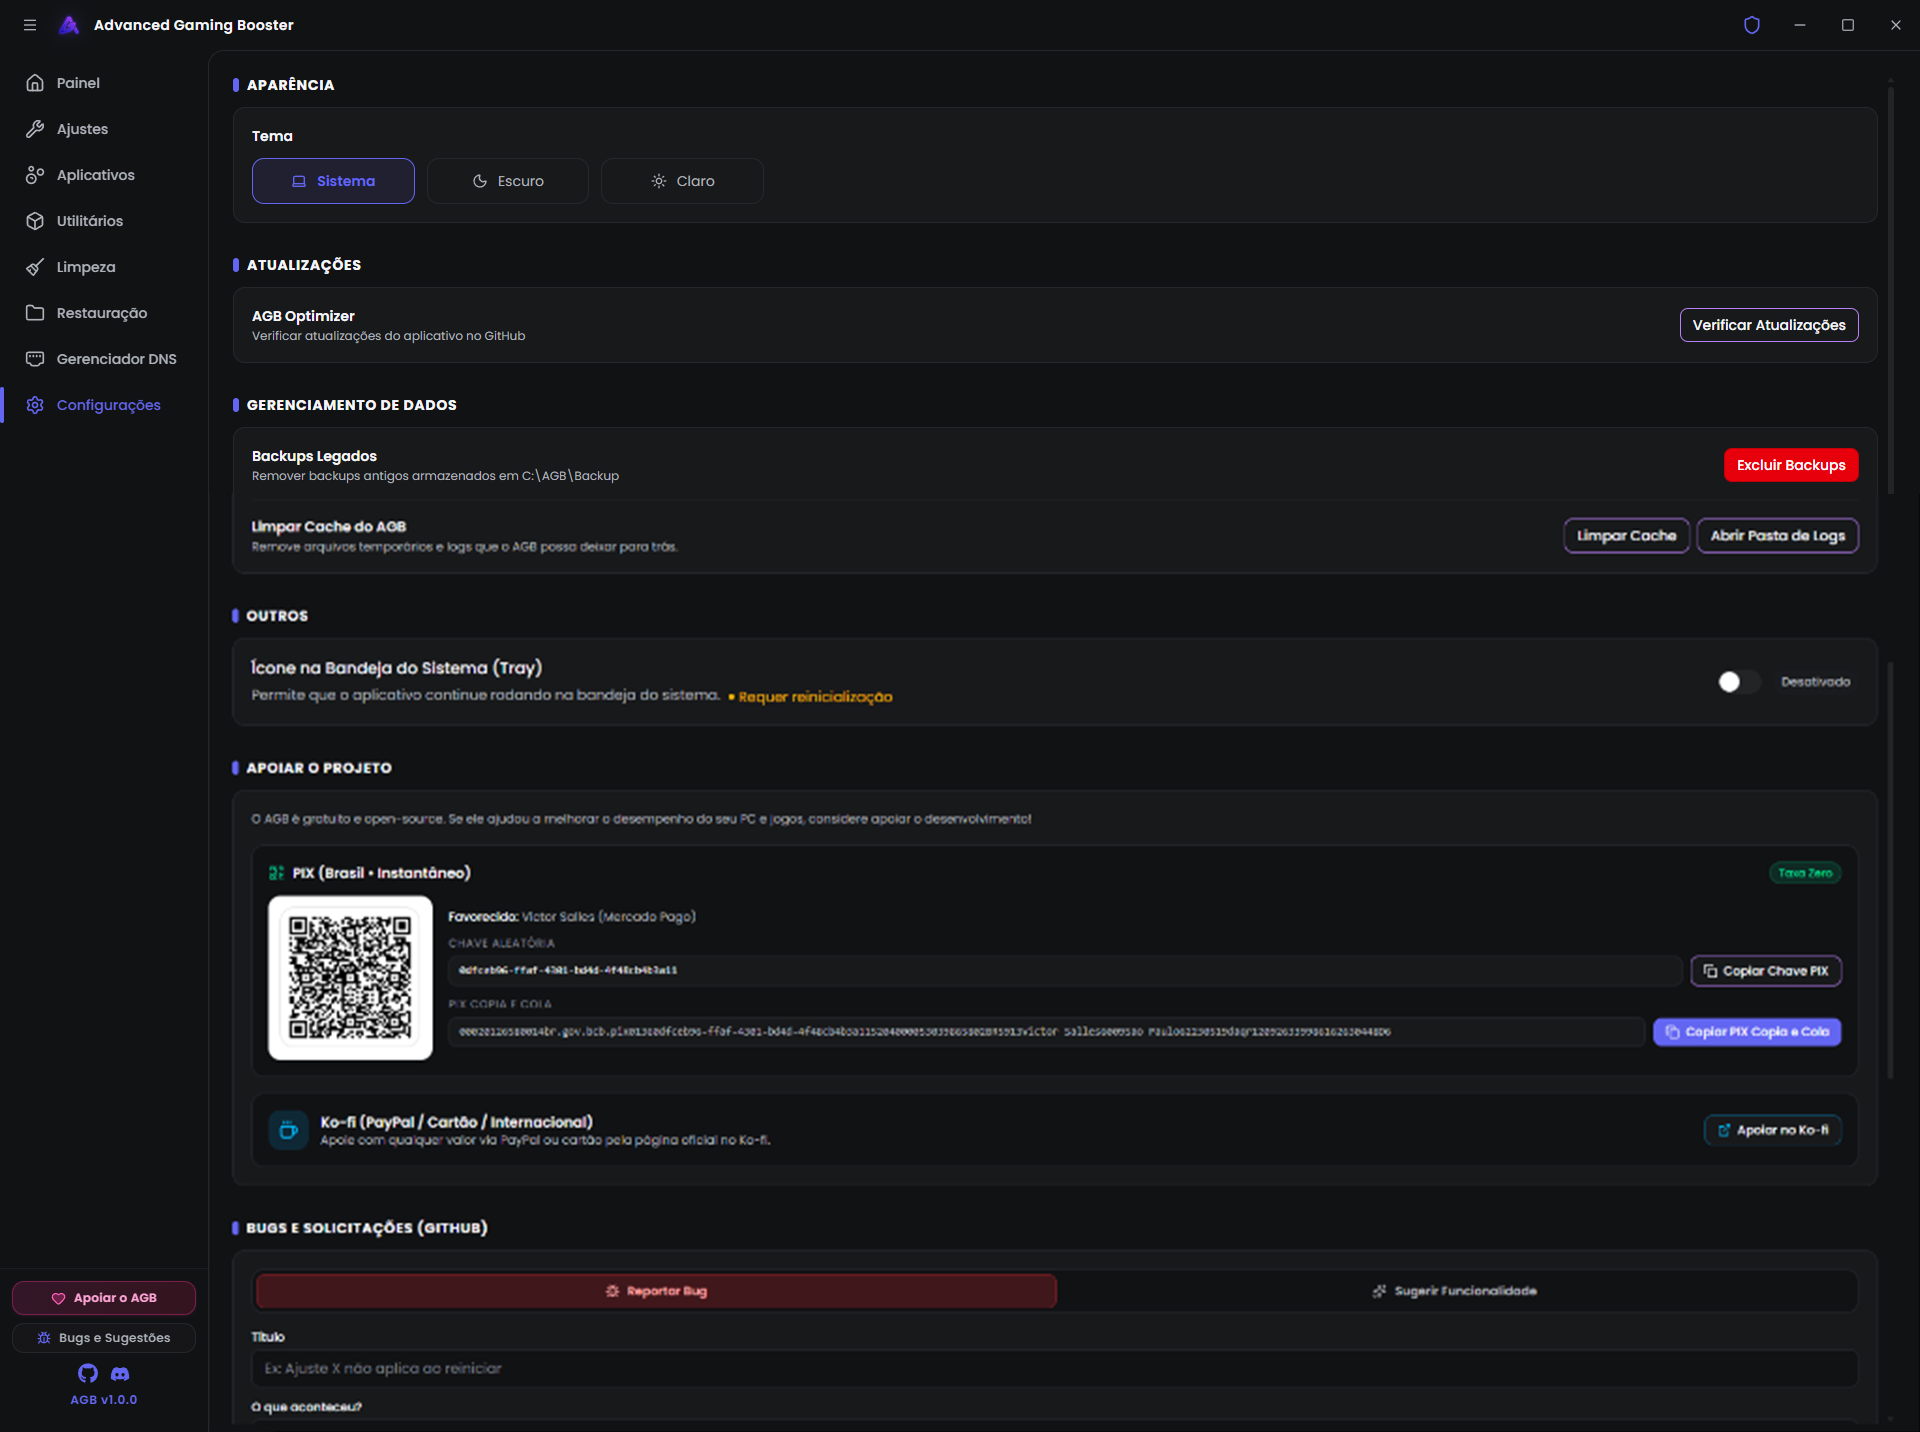
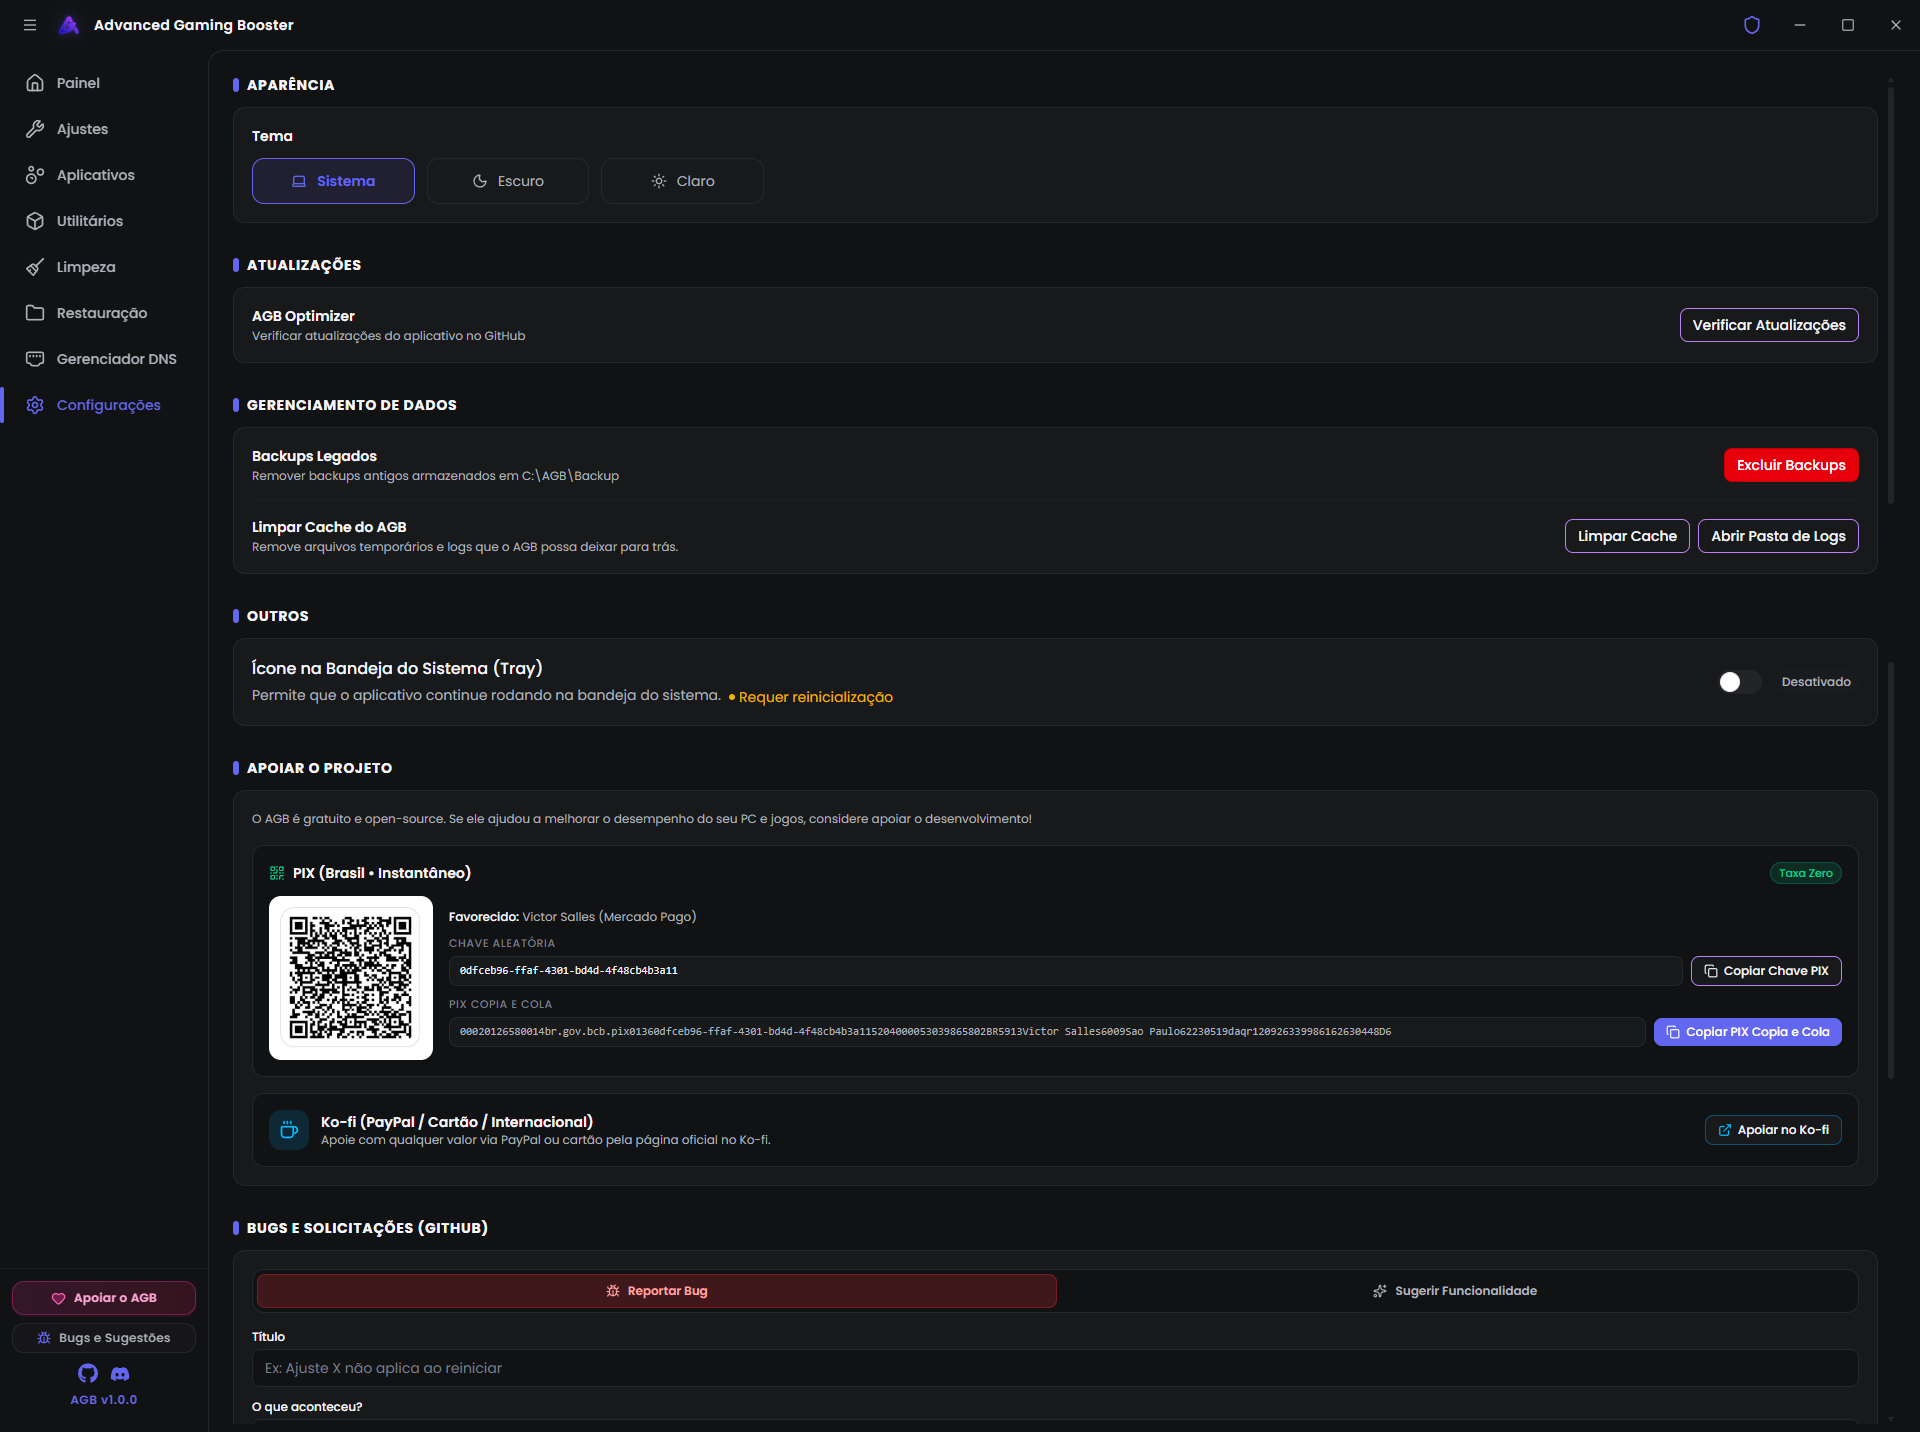
docs: adiciona prints dos modais de apoio e bugs e atualiza imagens em alta resolucao

diff --git a/README.md b/README.md
@@ -200,6 +200,10 @@ Permite testar e aplicar servidores DNS diretamente nos adaptadores de rede ativ
 - **Bugs e Sugestões:** Área e modal dedicados para abrir [**Issues no GitHub**](https://github.com/VictorSallesBz/AGB/issues/new/choose) (Reportar Bug ou Solicitar Funcionalidade/Ajuste).
 - **Comunidade:** Entre no [**Discord Oficial do AGB**](https://discord.gg/b3HekDzKGS) para tirar dúvidas e conversar com outros usuários.
 
+![Modal Apoiar o AGB — PIX e Ko-fi](images/screenshots/11-apoiar.png)
+
+![Modal Bugs e Sugestões via GitHub](images/screenshots/12-feedback.png)
+
 ---
 
 ## 📑 Índice Rápido dos 66 Ajustes
